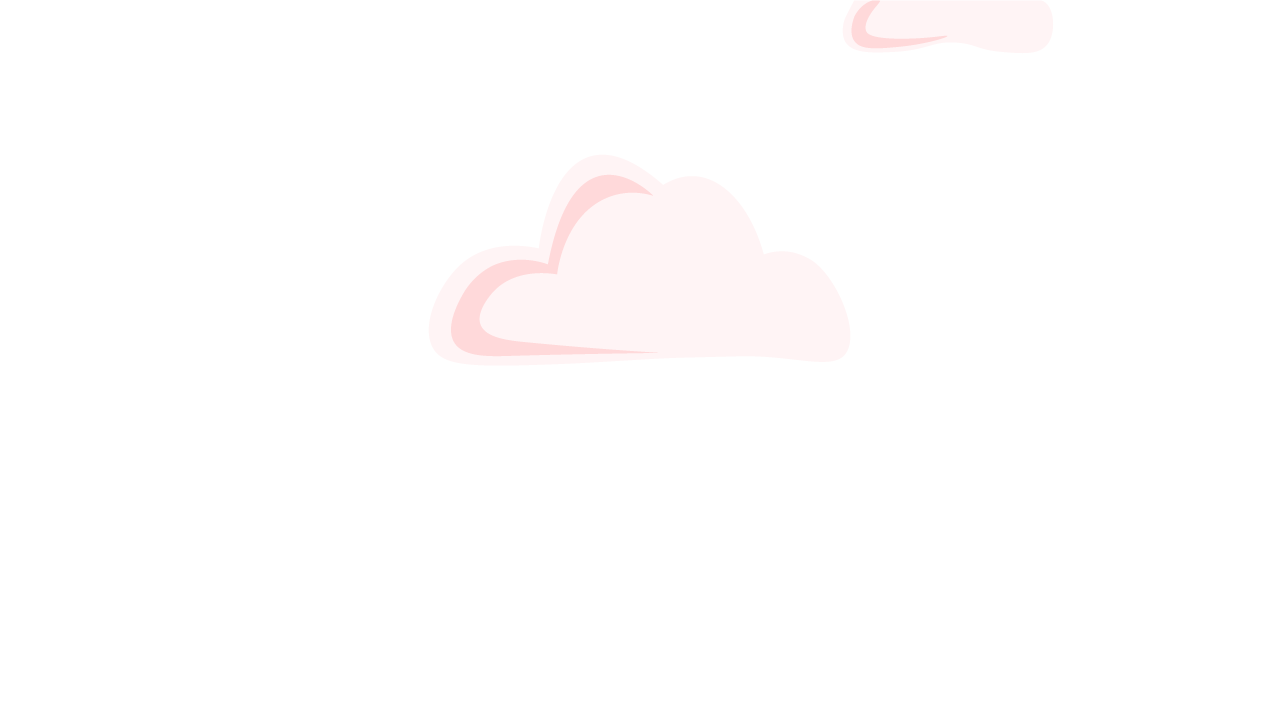
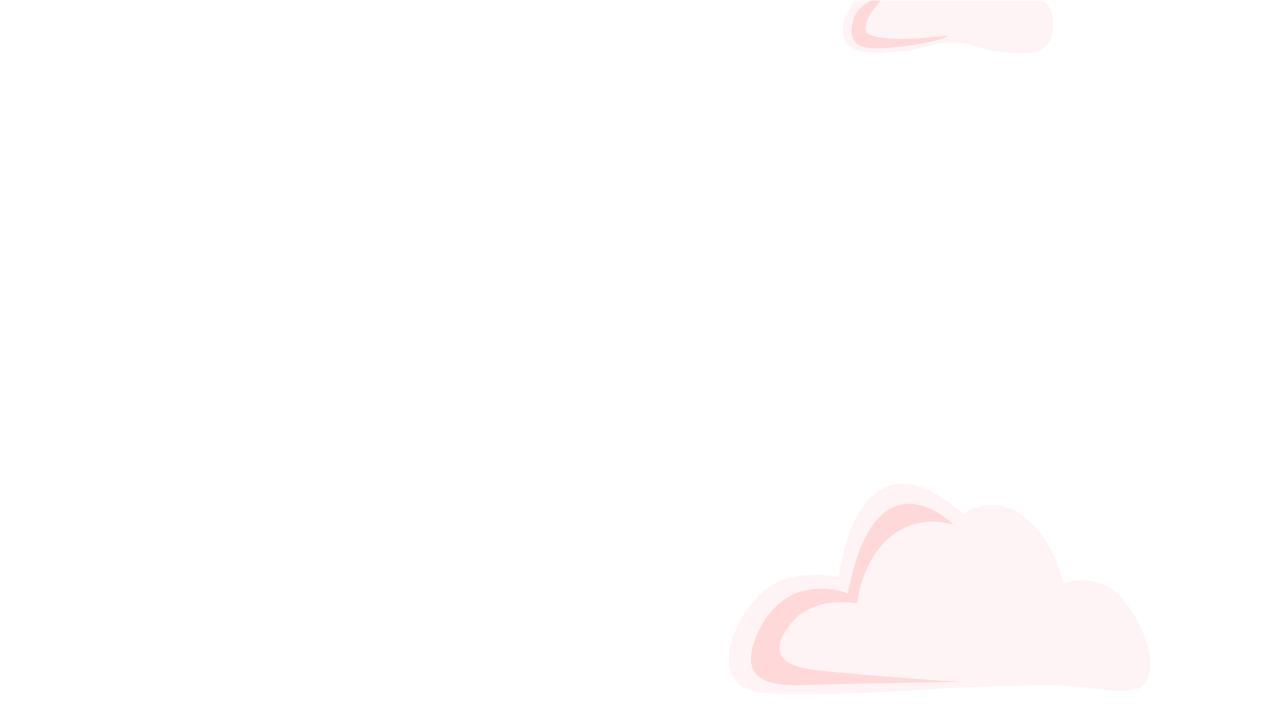
skyer

Changed region(s): [[0.5625, 0.7028, 0.75, 0.9778], [0.3438, 0.3361, 0.4688, 0.5194], [0.4375, 0.2444, 0.5, 0.3361]]

diff --git a/Isometric test 1/GameWorld.cs b/Isometric test 1/GameWorld.cs
@@ -71,7 +71,7 @@ namespace Isometric_test_1
 
             _scrollingBackgrounds = new List<ScrollingBackground>()
            {
-        new ScrollingBackground(Content.Load<Texture2D>("BackGrounds/Clouds_Fast"), 10f, true)
+        new ScrollingBackground(Content.Load<Texture2D>("BackGrounds/Clouds_Fast"), 18f, true)
         {
           Layer = 0.99f,
         },
